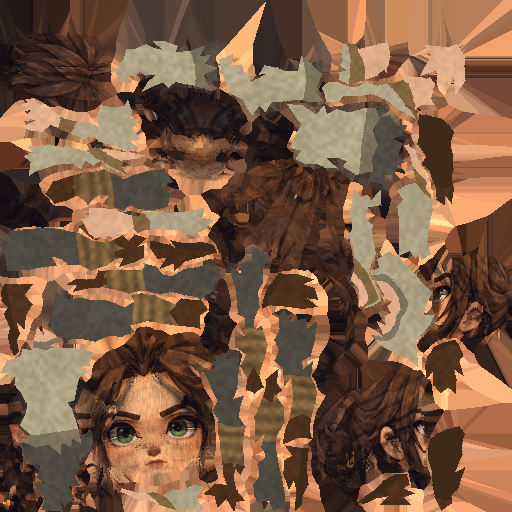
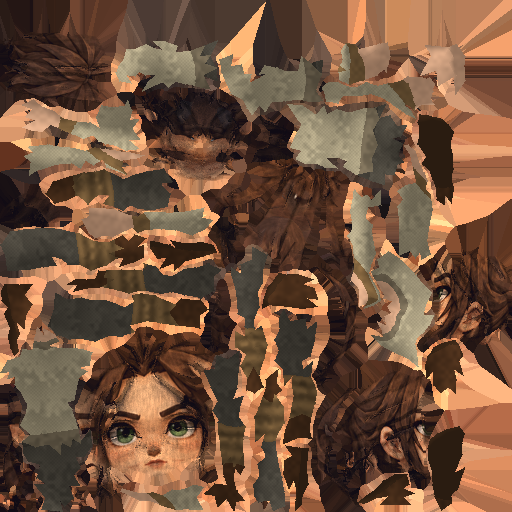
feat(arqueiro): textura do corpo repintada com sombreado e captura do corpo no Godot
Pintor do corpo ganha sombreado pela normal suavizada, luz fixa e dobras leves
no tecido (cabeca mantida). Regenera Arqueiro_Corpo.glb e adiciona captura_corpo.gd
para fotografar o GLB no Godot 4.7.2 sem cena.

diff --git a/art-src/personagens/arqueiro/pintar_corpo.py b/art-src/personagens/arqueiro/pintar_corpo.py
@@ -25,6 +25,8 @@ def ruido(sc, n=S):
 
 N1, N2, N3 = ruido(4), ruido(16), ruido(64)
 yy, xx = np.mgrid[0:S, 0:S]
+LUZ = np.array([-0.45, -0.75, 0.55], np.float32)
+LUZ /= np.linalg.norm(LUZ)
 trama = 0.5 + 0.25 * np.sin(xx * 1.9) * np.sin(yy * 1.9)  # tecido
 PELE = np.array([0.89, 0.69, 0.55], np.float32)
 LINHO = np.array([0.74, 0.69, 0.56], np.float32)
@@ -83,9 +85,11 @@ for ob in bpy.data.objects:
     uv = me.uv_layers.active.data
     mw = ob.matrix_world
     me.calc_loop_triangles()
+    m3 = mw.to_3x3()
     for tri in me.loop_triangles:
         uvs = np.array([[uv[l].uv[0] * S, (1 - uv[l].uv[1]) * S] for l in tri.loops])
         ps = np.array([tuple(mw @ me.vertices[v].co) for v in tri.vertices])
+        ns = np.array([tuple((m3 @ me.vertices[v].normal).normalized()) for v in tri.vertices])
         x0, y0 = np.floor(uvs.min(0)).astype(int); x1, y1 = np.ceil(uvs.max(0)).astype(int)
         x0 = max(x0 - 1, 0); y0 = max(y0 - 1, 0); x1 = min(x1 + 1, S - 1); y1 = min(y1 + 1, S - 1)
         a, b, c = uvs
@@ -100,10 +104,20 @@ for ob in bpy.data.objects:
                 w2 = 1 - w0 - w1
                 if min(w0, w1, w2) < -0.08:                     # margem contra costura
                     continue
-                w = np.clip([w0, w1, w2], 0, 1); w /= w.sum()
+                wc = np.clip([w0, w1, w2], 0, 1)
+                w = wc / wc.sum()
                 p = w @ ps
                 r = cor(ob.name, p, ty, tx)
                 if r is not None:
-                    out[ty, tx] = np.clip(r, 0, 1)
+                    # sombreado: normal interpolada (malha suavizada) + luz de frente-cima-esquerda
+                    nrm = w @ ns
+                    nrm = nrm / max(np.linalg.norm(nrm), 1e-6)
+                    ndl = max(0.0, float(nrm @ LUZ))
+                    sombra = 0.68 + 0.36 * ndl
+                    # dobras leves no tecido (nao nas partes de pele/couro)
+                    dobra = 1.0
+                    if ob.name in ("Body_Torso", "Body_Legs", "Body_Arms"):
+                        dobra = 1.0 + 0.045 * np.sin(p[2] * 58.0 + 5.0 * N1[ty, tx])
+                    out[ty, tx] = np.clip(r * sombra * dobra, 0, 1)
 Image.fromarray((out * 255).astype(np.uint8)).save(tex_out)
 print("salvo", tex_out)

diff --git a/art-src/personagens/arqueiro/orcamento.md b/art-src/personagens/arqueiro/orcamento.md
@@ -45,5 +45,5 @@ Textura propria 512x512 (`peitoral_textura.py`): 8 celulas de pena + amostras de
 - `build_corpo.py` roda `arredondar()` depois de `proporcao.aplicar`: Catmull-Clark nível 1 e reducao (collapse) para Arms 0,55, Hands 0,55, Feet 0,55, Torso 0,50 e Legs 0,50. A cabeça não muda.
 - Triângulos medidos após a redução: Arms 561, Hands 626, Feet 1.009, Torso 1.134, Legs 1.307 (corpo sem cabeça 4.637). Com a cabeça (1.020): ~5.657. Dentro do alvo do herói (4.000 a 6.500).
 - Pesos e UV seguem a malha (a subdivisão interpola). Rig de 27 ossos e ações inalterados (9 ações).
-- Textura: continua `T_Archer_Body_BC.png` (ainda não repintada à mão).
+- Textura `tex_corpo/T_Archer_Body_BC.png` repintada por `pintar_corpo.py` com sombreado pela normal suavizada, luz de frente-cima-esquerda e dobras leves no tecido (semente fixa). Cabeça e cabelo mantidos da textura original.
 - O objeto `Icosphere` que aparece na releitura do GLB é a esfera de forma de osso criada pelo importador do glTF; não faz parte do arquivo exportado.
